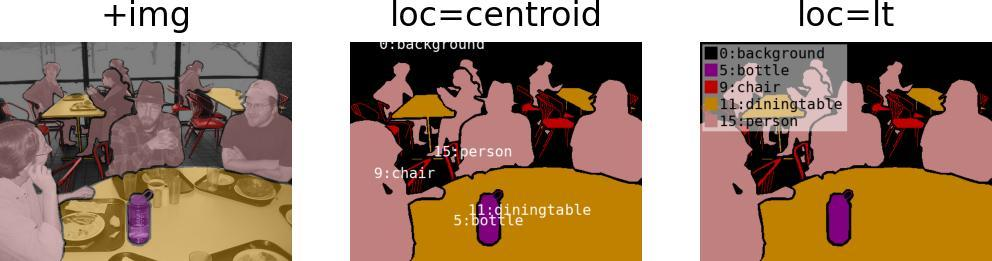
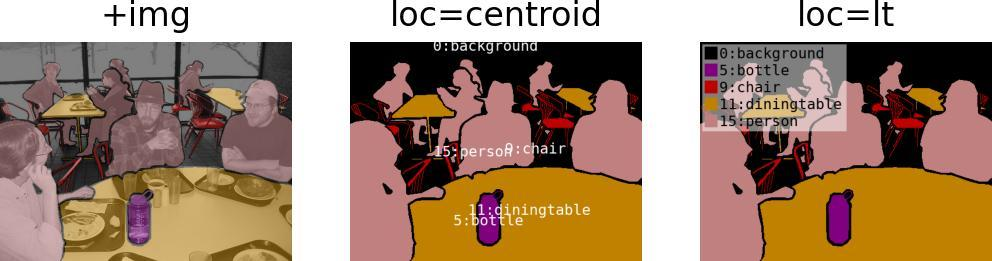
fix(label2rgb): make centroid selection deterministic

diff --git a/imgviz/_label.py b/imgviz/_label.py
@@ -131,6 +131,8 @@ def label2rgb(
         return res
 
     if loc == "centroid":
+        random_state: np.random.RandomState = np.random.RandomState(0)
+
         res = _utils.numpy_to_pillow(res)
         for label_i in unique_labels:
             mask = label == label_i
@@ -140,7 +142,7 @@ def label2rgb(
 
             if label[y, x] != label_i:
                 Y, X = np.where(mask)
-                point_index = np.random.randint(0, len(Y))
+                point_index = random_state.randint(0, len(Y))
                 y, x = Y[point_index], X[point_index]
 
             text = label_names[label_i]
